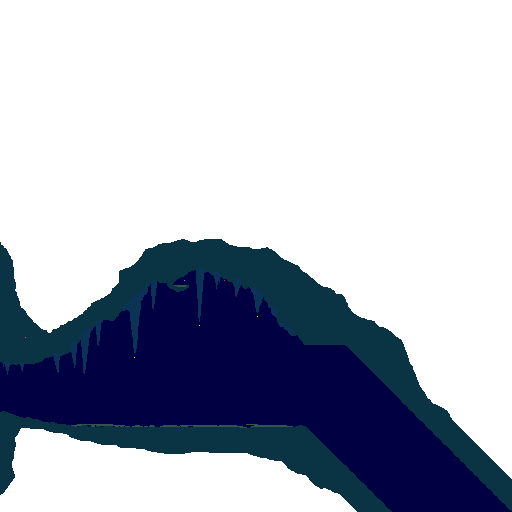
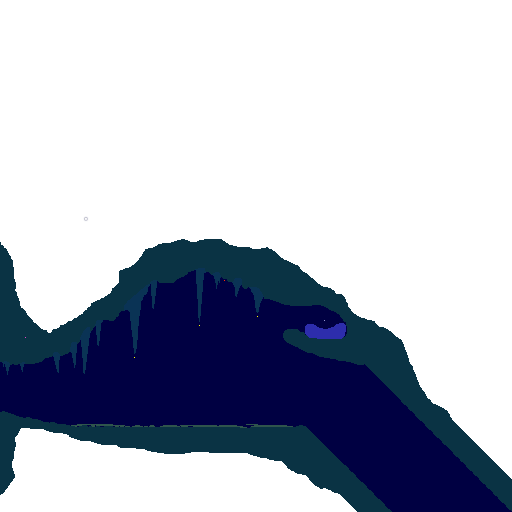
Add more about progress, fix worm egg

Changed region(s): [[0.5312, 0.5938, 0.7188, 0.7188], [0.3125, 0.5312, 0.375, 0.5938], [0.5, 0.5625, 0.5312, 0.5938]]

diff --git a/README.md b/README.md
@@ -12,8 +12,19 @@ Noita Minus mod for Noita.
 - [x] Higher wand, HP-up, chest, flask spawn rates
 - [x] Increase movement speed and acceleration somewhat (currently 30%)
 - [x] Drain dark cave
-- [ ] Move worm egg closer to spawn
-- [ ] Lower glass cannon HP
+- [x] Move worm egg closer to spawn
 - [x] Make biomes one-way
 - [x] Put temple portals under everything
 - [ ] Re-add interesting deleted biomes, i.e. temple
+
+# TODO/bugs
+
+make biome sizes smaller due to one-way nature? atm you have to traverse through the same or more amount of level to get to fungal/dcave/...
+
+orbs don't work, healthups might?
+
+possibly fix spawn rates; add more spawn points to wand-rich biomes like fungal?
+
+dark cave drainage not working
+
+some teleports broken; from jungle to temple and from boss to death room
